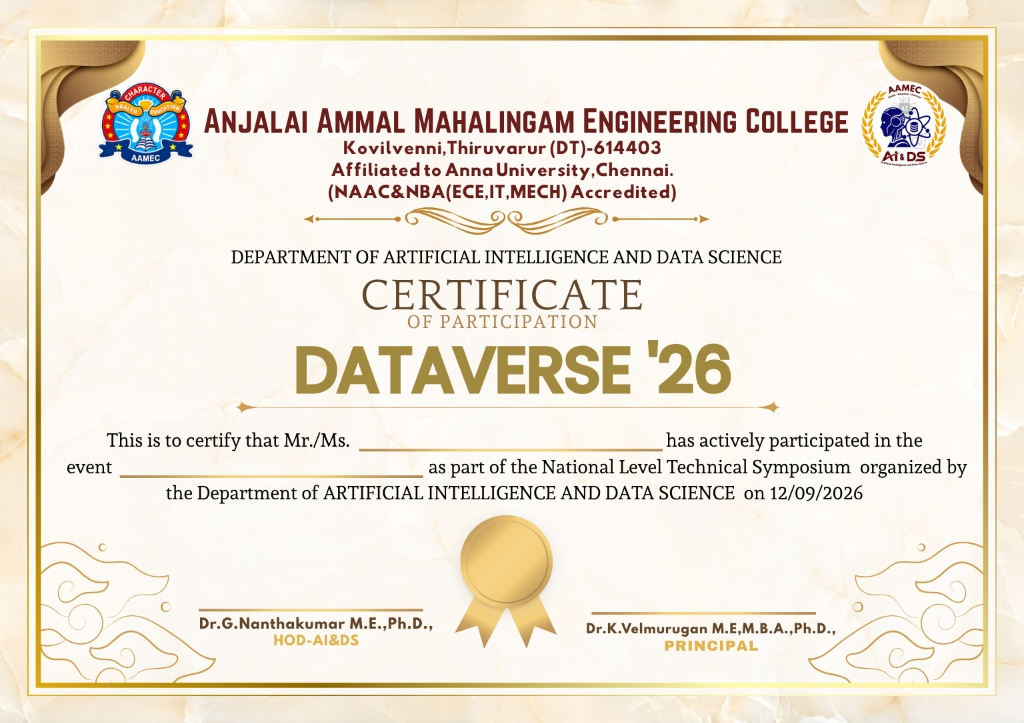
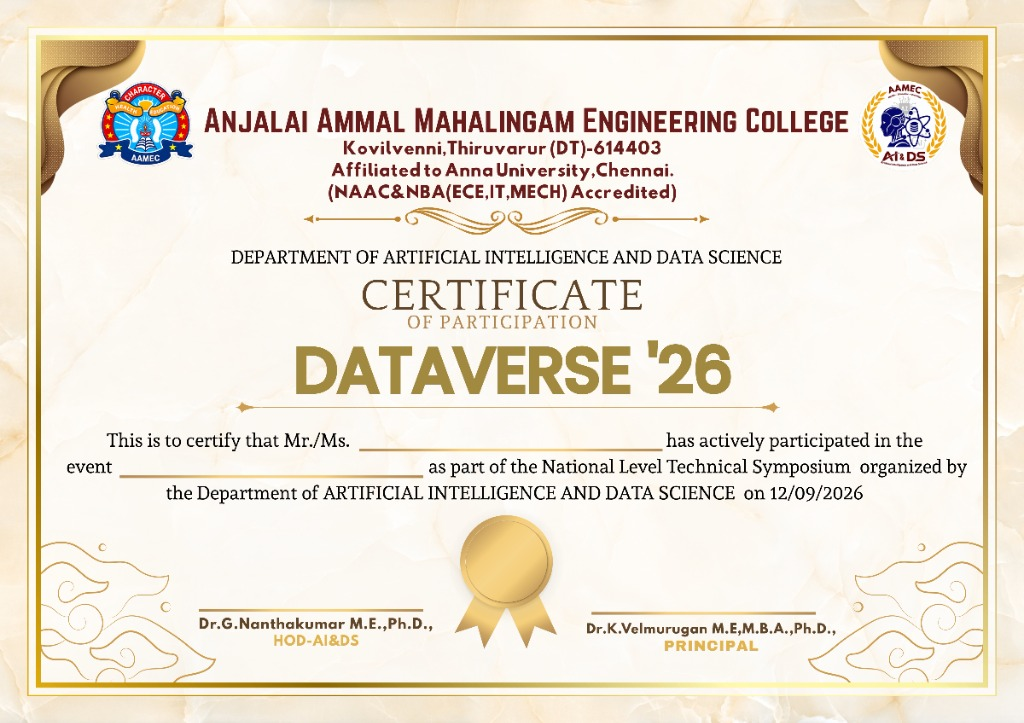
feat(certificates): update participation template and apply League Spartan font

diff --git a/frontend/src/components/CertificateModal.jsx b/frontend/src/components/CertificateModal.jsx
@@ -134,18 +134,21 @@ export default function CertificateModal({ certificate, onClose }) {
                     }}
                   >
                     {/* 1. Student Name Overlay (Over Blank Line 1) */}
-                    <div className="absolute left-[295px] top-[322px] w-[300px] text-center pointer-events-none flex items-center justify-center">
+                    <div className="absolute left-[285px] top-[331px] w-[230px] text-center pointer-events-none flex items-center justify-center">
                       <span
-                        className="text-[17px] font-bold text-slate-900 leading-tight truncate px-1"
-                        style={{ fontFamily: 'Georgia, serif', textShadow: '0 0 1px rgba(0,0,0,0.15)' }}
+                        className="text-[17px] font-extrabold text-slate-900 leading-tight truncate px-1"
+                        style={{ fontFamily: "'League Spartan', sans-serif", letterSpacing: '0.4px' }}
                       >
                         {studentName}
                       </span>
                     </div>
 
                     {/* 2. Event Title Overlay (Over Blank Line 2) */}
-                    <div className="absolute left-[105px] top-[350px] w-[245px] text-center pointer-events-none flex items-center justify-center">
-                      <span className="text-[14px] font-extrabold text-amber-950 uppercase tracking-wide truncate px-1">
+                    <div className="absolute left-[94px] top-[358px] w-[230px] text-center pointer-events-none flex items-center justify-center">
+                      <span
+                        className="text-[13.5px] font-black text-amber-900 uppercase tracking-wide truncate px-1"
+                        style={{ fontFamily: "'League Spartan', sans-serif", letterSpacing: '0.6px' }}
+                      >
                         {eventTitle}
                       </span>
                     </div>

diff --git a/frontend/index.html b/frontend/index.html
@@ -63,7 +63,7 @@
 
     <link rel="preconnect" href="https://fonts.googleapis.com">
     <link rel="preconnect" href="https://fonts.gstatic.com" crossorigin>
-    <link href="https://fonts.googleapis.com/css2?family=Plus+Jakarta+Sans:wght@300;400;500;600;700;800;900&display=swap" rel="stylesheet">
+    <link href="https://fonts.googleapis.com/css2?family=League+Spartan:wght@400;500;600;700;800;900&family=Plus+Jakarta+Sans:wght@300;400;500;600;700;800;900&display=swap" rel="stylesheet">
   </head>
   <body class="bg-slate-950 text-slate-100 font-sans">
     <div id="root"></div>
